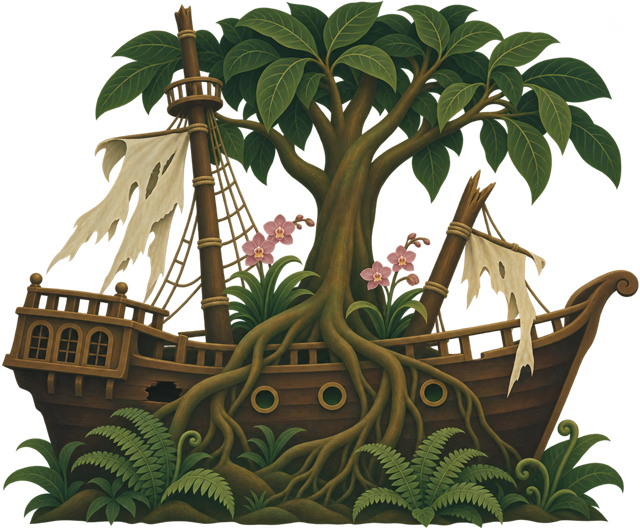
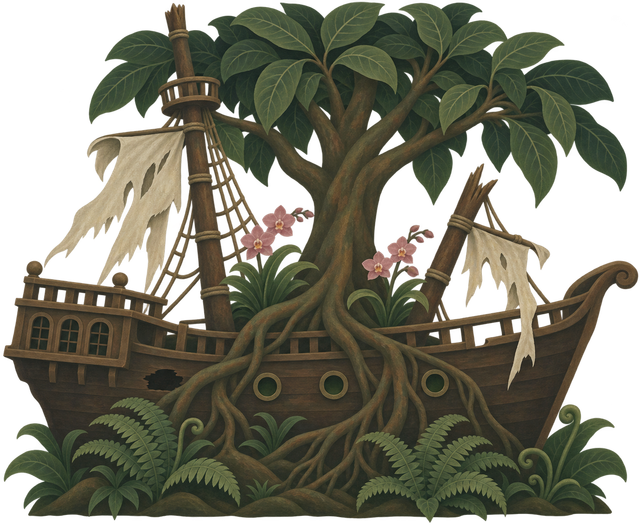
Match galleon shading and add first five jungle props

diff --git a/art-review/index.html b/art-review/index.html
@@ -1,0 +1,1 @@
+<!doctype html><html lang="ko"><meta charset="utf-8"><meta name="viewport" content="width=device-width"><title>정글 에셋 비교 · 11월 5일</title><style>*{box-sizing:border-box}body{margin:0;background:#17291f;color:#efe7d1;font:16px/1.5 system-ui}main{max-width:1400px;margin:auto;padding:32px}h1{font-size:28px}h2{margin:28px 0 12px;font-size:20px}p{color:#bbc7b7}a{color:#e7c779}.pair{display:grid;grid-template-columns:1fr 1fr;gap:16px}figure{margin:0;background:#304333;padding:16px;border-radius:8px}figcaption{margin-top:10px;color:#ccd4c4}figure img{display:block;width:100%;height:auto}.line{display:flex;align-items:end;justify-content:space-around;gap:16px;background:#46543c;padding:24px;border-radius:8px}.line img{max-width:100%;object-fit:contain;object-position:bottom;height:270px}.line figure{background:none;padding:0;flex:1;min-width:0}.line .ship{flex:2.3}.line .ship img{height:340px}.line figcaption{text-align:center;font-size:14px}@media(max-width:700px){.pair{grid-template-columns:1fr}.line{flex-wrap:wrap}.line figure{min-width:120px}.line .ship{min-width:100%}.line img{height:180px}}</style><main><h1>정글 · 배 교정과 첫 5개</h1><p>2026년 11월 5일 · 실제 게임 렌더링 + 기존 에셋 비교. <a href="../">게임 열기 ↗</a></p><h2>배 — 같은 위치와 낮 시간의 전후 비교</h2><p>게임 코드를 별도로 실행해 촬영했습니다. 주변 수풀과 게임 조명을 포함한 모습입니다.</p><div class="pair"><figure><img src="game-before.png"><figcaption>기존 적용본</figcaption></figure><figure><img src="game-after.png"><figcaption>질감·명암·잎색 교정본</figcaption></figure></div><h2>기존 숲과 나란히 — 형태를 가리지 않은 비교</h2><div class="line"><figure><img src="../assets/tree.png"><figcaption>기존 나무</figcaption></figure><figure class="ship"><img src="../assets/galleon.png"><figcaption>교정 배</figcaption></figure><figure><img src="../assets/heartleaf.png"><figcaption>기존 큰잎</figcaption></figure><figure><img src="../assets/fern.png"><figcaption>기존 고사리</figcaption></figure></div><h2>첫 묶음 · 5개</h2><div class="line"><figure><a href="../assets/piano.png"><img src="../assets/piano.png"></a><figcaption>피아노</figcaption></figure><figure><a href="../assets/clock.png"><img src="../assets/clock.png"></a><figcaption>괘종시계</figcaption></figure><figure><a href="../assets/gramophone.png"><img src="../assets/gramophone.png"></a><figcaption>축음기</figcaption></figure><figure><a href="../assets/bicycle.png"><img src="../assets/bicycle.png"></a><figcaption>자전거</figcaption></figure><figure><a href="../assets/mailbox.png"><img src="../assets/mailbox.png"></a><figcaption>우체통</figcaption></figure></div><h2>게임 안에서</h2><div class="pair"><figure><img src="game-piano.png"><figcaption>피아노</figcaption></figure><figure><img src="game-mailbox.png"><figcaption>우체통</figcaption></figure></div><p>현재 수풀 배치 때문에 일부 물건은 가려질 수 있습니다. 게임 구조·퍼즐 로직은 이번 에셋 작업에서 수정하지 않았습니다.</p></main></html>

diff --git a/ART_DIRECTION.md b/ART_DIRECTION.md
@@ -1,0 +1,22 @@
+# 정글 에셋 화풍 기준 — 2026-11-05
+
+이번 사용자 요청과 실제 이미지를 우선한다. 이전 실패 초안을 완성품이나 스타일 기준으로 취급하지 않는다.
+
+## 직접 확인한 기준
+- 최우선: ../art-references/rousseau-master-the-dream.jpg
+- 사용자 지정: 같은 폴더의 approved-banana.png, approved-heartleaf.png
+- 추가 원화: rousseau-user-01.png ~ rousseau-user-03.png
+- 작업 시작 시 assets의 PNG 27장 전부 개별 열람. 특히 tree, banana, heartleaf, fern, log와 표면·윤곽·명암을 비교.
+
+## 화풍
+가는 통합된 윤곽, 분명한 잎맥, 얕은 공간감. 큰 형태 안에 낮은 대비의 불규칙한 무광 물감 변화가 있다. 매끈한 입체 그라데이션, 굵은 만화 외곽선, 셀 셰이딩, 과한 붓자국으로 대체하지 않는다.
+잎은 짙은 숲 녹색·회녹색·차분한 올리브. 목재는 탁한 갈색·회올리브. 뿌리를 따라 둥근 금빛 하이라이트를 두르지 않는다. 금속은 무광 황토색이며 사진 같은 반사·녹·표면 묘사는 피한다. 색만 아니라 세부 묘사 밀도까지 기존 에셋과 맞춘다.
+
+## 현재 진행
+사용자가 배 교정본을 보고 '이 기준으로 계속', '다른 애들도', '하면 올리고 확인하게'라고 지시했다. 배와 첫 묶음(피아노·시계·축음기·자전거·우체통)을 우선 적용하고 게임 내 확인을 받는다. 특정 이전 괘종시계 초안을 원화보다 우선하는 기준으로 삼지 않는다.
+내장 이미지 생성 도구에 실제 원화, 승인 바나나·큰잎, 기존 tree, 교정 배를 직접 제공했다. 프롬프트와 원본 경로는 ../ship-review/2026-11-05/에 보존한다.
+
+## 이후 묶음
+5개씩 제작·확인·적용한다. 상태별 이미지는 동일 기본 그림을 편집해 위치·크기·색·질감을 유지한다. 투명 PNG, 긴 변 640px 이하, ART_LIST.md의 비율·접지·매달림 위치를 따른다.
+오두막 기호는 왼쪽부터 잎·달·해. 신전 문은 수달·오셀롯·원숭이. 구조 및 퍼즐 코드는 변경하지 않는다.
+땅·길·물가 연결 에셋은 별도 후속 작업으로 남겨둔다.
